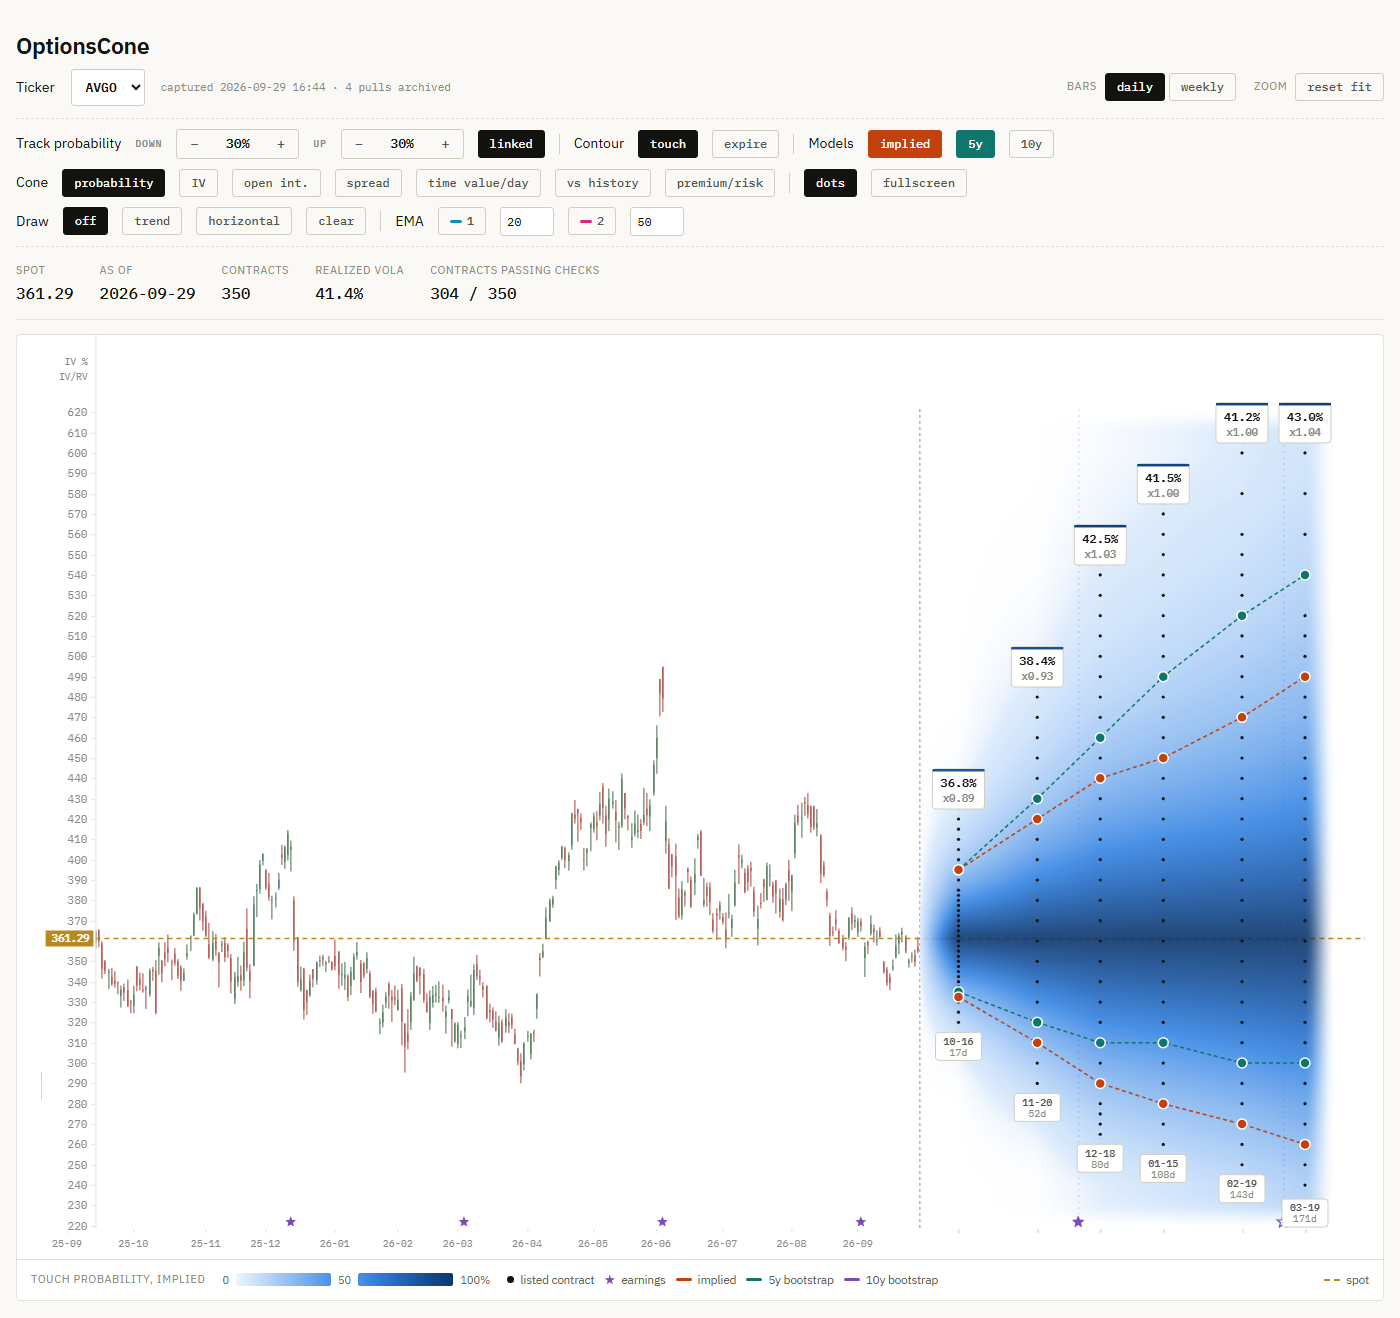
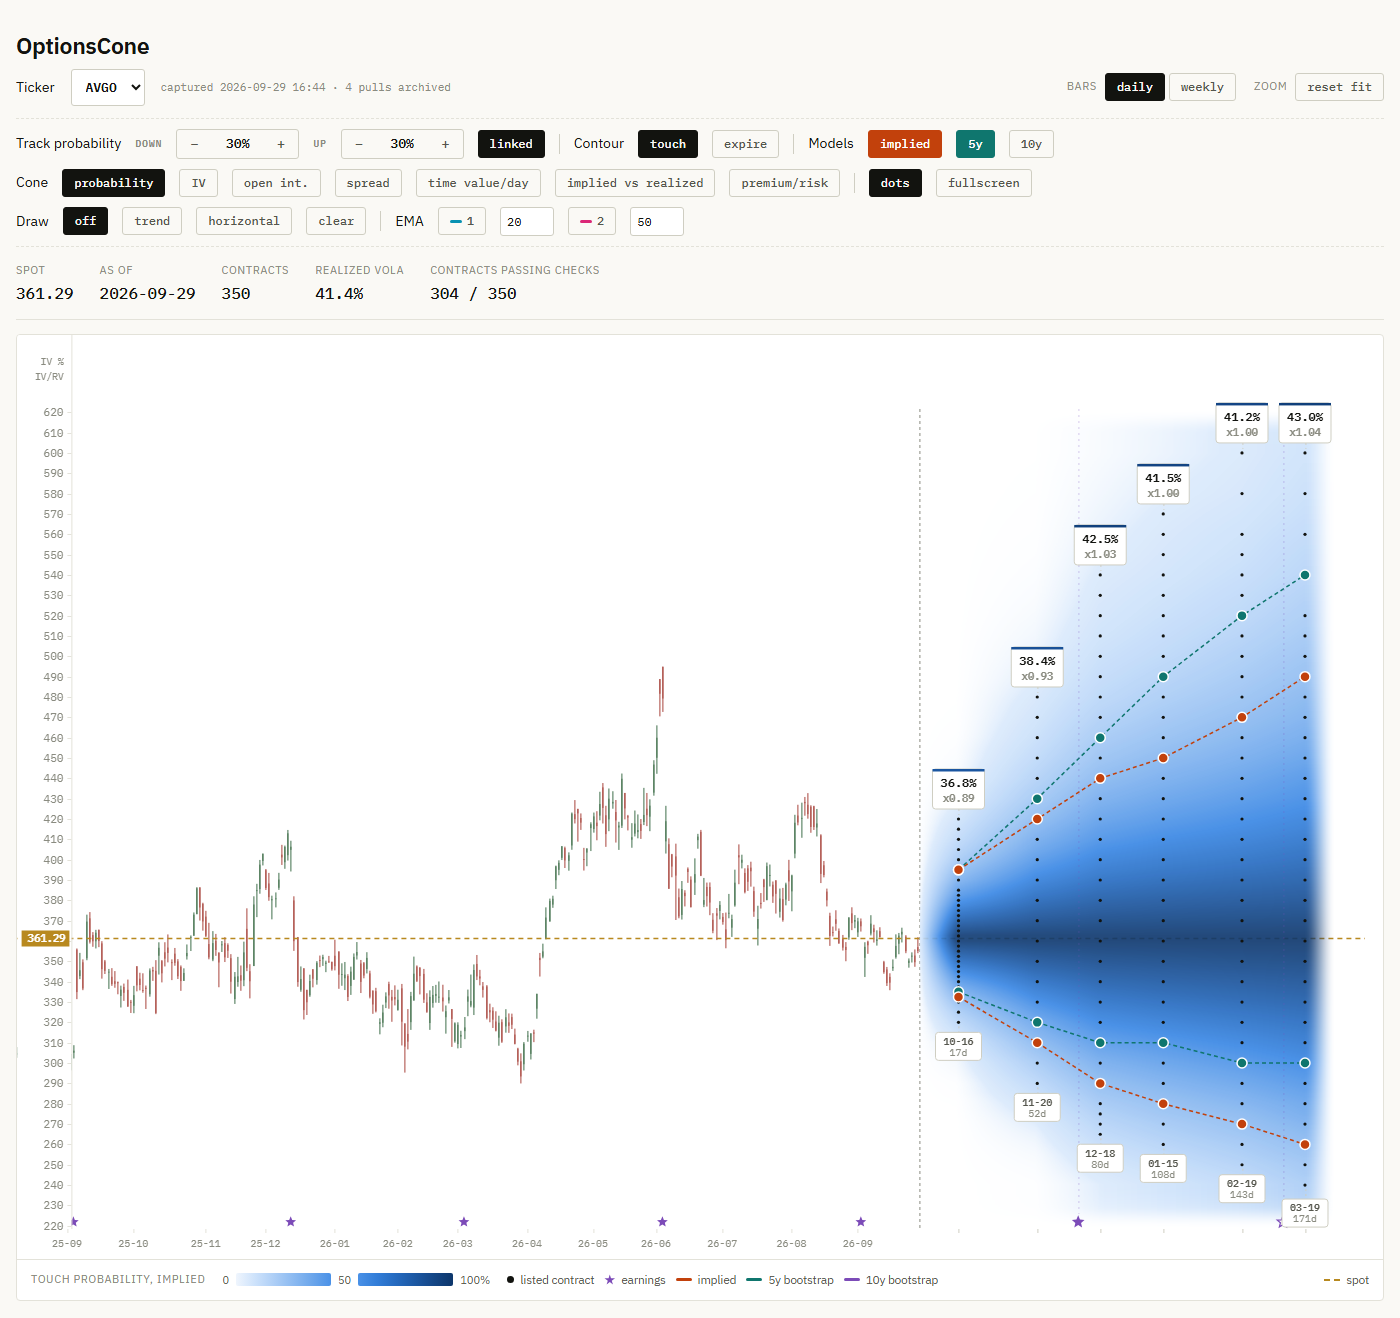
Rename vs history to implied vs realized

Changed region(s): [[0.0, 0.28, 0.0921, 0.9332], [0.43, 0.1244, 0.7371, 0.1555]]

diff --git a/docs/methods.html b/docs/methods.html
@@ -117,10 +117,10 @@
 
     <h2 id="cone">Drawing the cone</h2>
     <p>Probability coloring is interpolated between the listed strikes and expiries, in log price. Where an expiry does not list a strike, the probability is computed from the volatility of its nearest listed strike so the field stays continuous; no dot is drawn there. The color ramp is adjusted so that perceived lightness falls evenly with probability.</p>
-    <p>Implied volatility, open interest, spread and time value per day are painted outward from each contract: each point takes the strongest contract within reach, so a large position stays visible as a block instead of being averaged away. The two seller maps, vs history and premium per unit risk, are differences and ratios and are blended instead: each point is the average of the contracts around it, weighted by inverse distance, so every contract shows its own value at its own position and a high value does not spill onto its neighbors.</p>
-    <p>All maps fade out beyond the outermost listed strikes, past the last expiry, and where they run into the top or bottom of the chart, so the cone ends softly; only transparency changes there, never the color. The strike range follows the expiry that reaches furthest on each side. Probability uses a fixed 0 to 100% scale, implied volatility a linear scale over the values shown, and open interest, spread, time value per day and premium per unit risk a logarithmic scale, with spread inverted so that darker means tighter. vs history is centered on zero.</p>
+    <p>Implied volatility, open interest, spread and time value per day are painted outward from each contract: each point takes the strongest contract within reach, so a large position stays visible as a block instead of being averaged away. The two seller maps, implied vs realized and premium per unit risk, are differences and ratios and are blended instead: each point is the average of the contracts around it, weighted by inverse distance, so every contract shows its own value at its own position and a high value does not spill onto its neighbors.</p>
+    <p>All maps fade out beyond the outermost listed strikes, past the last expiry, and where they run into the top or bottom of the chart, so the cone ends softly; only transparency changes there, never the color. The strike range follows the expiry that reaches furthest on each side. Probability uses a fixed 0 to 100% scale, implied volatility a linear scale over the values shown, and open interest, spread, time value per day and premium per unit risk a logarithmic scale, with spread inverted so that darker means tighter. Implied vs realized is centered on zero.</p>
     <p>Time value per day is the mid divided by the days to expiry. Every contract shown is out of the money, so its whole price is time value; per day it is an average over the remaining life, since decay speeds up towards expiry.</p>
-    <p>vs history is the implied touch probability minus the 10-year bootstrap: blue where the market prices more risk than history (a rich premium for a seller), red where it prices less. Touch rather than expire, because it rests on volatility more than on the trend the history happened to have. The bootstrap does not know the earnings calendar: about one in three of its 20-day blocks contains a past earnings reaction, whatever the dates. For an expiry that ends before the next report, history therefore overstates the risk and the map leans red; for one that spans the report, the market prices the event and the map leans blue.</p>
+    <p>Implied vs realized is the implied touch probability minus the realized one from the 10-year bootstrap: blue where the market prices in a higher probability than the stock realized (a potential opportunity for sellers), red where lower. Touch rather than expire, because it rests on volatility more than on the trend the history happened to have. The bootstrap does not know the earnings calendar: about one in three of its 20-day blocks contains a past earnings reaction, whatever the dates. For an expiry that ends before the next report, history therefore overstates the risk and the map leans red; for one that spans the report, the market prices the event and the map leans blue.</p>
     <p>Premium per unit risk is the mid divided by the average intrinsic value at the worst point of each 10-year path before expiry: for a short put the lowest low, for a short call the highest high, with paths that never reach the strike counted as zero. It is left out where fewer than 50 of the 10,000 paths reach the strike. It uses the mid; a seller receives the bid, which on far out-of-the-money contracts is noticeably lower.</p>
     <p>For each expiry and model, the contour marks the listed strike whose probability is closest to the target, separately above and below spot. A filled marker is within 5 percentage points of the target.</p>
 

diff --git a/docs/manual.html b/docs/manual.html
@@ -117,7 +117,7 @@
       <tr><td><em>linked</em></td><td>Moves both sides together.</td></tr>
       <tr><td>Contour: <em>touch</em>, <em>expire</em></td><td>Whether the lines track the probability of touching the strike before expiry, or of finishing beyond it at expiry.</td></tr>
       <tr><td>Models: <em>implied</em>, <em>5y</em>, <em>10y</em></td><td>Show or hide each model's line.</td></tr>
-      <tr><td>Cone: <em>probability</em>, <em>IV</em>, <em>open int.</em>, <em>spread</em>, <em>time value/day</em>, <em>vs history</em>, <em>premium/risk</em></td><td>What the cone is colored by. Clicking the active button again hides the cone, so the contour lines can be read on their own. Probability uses a fixed 0 to 100% scale; the others are stretched across the values on screen, with the ends shown in the legend. For spread, darker means tighter. <em>time value/day</em> is the mid divided by the days to expiry (an average, since decay speeds up towards expiry). <em>vs history</em> is the implied touch probability minus the 10-year bootstrap: blue where the market prices more risk than history (rich premium for a seller), red where it prices less. <em>premium/risk</em> is the mid divided by the average intrinsic value at the worst point of the 10-year paths; higher is better for a seller.</td></tr>
+      <tr><td>Cone: <em>probability</em>, <em>IV</em>, <em>open int.</em>, <em>spread</em>, <em>time value/day</em>, <em>implied vs realized</em>, <em>premium/risk</em></td><td>What the cone is colored by. Clicking the active button again hides the cone, so the contour lines can be read on their own. Probability uses a fixed 0 to 100% scale; the others are stretched across the values on screen, with the ends shown in the legend. For spread, darker means tighter. <em>time value/day</em> is the mid divided by the days to expiry (an average, since decay speeds up towards expiry). <em>implied vs realized</em> is the implied touch probability minus the realized one from the 10-year bootstrap: blue where the market prices in a higher probability than the stock realized (a potential opportunity for sellers), red where lower. <em>premium/risk</em> is the mid divided by the average intrinsic value at the worst point of the 10-year paths; higher is better for a seller.</td></tr>
       <tr><td><em>dots</em></td><td>Hides the contract dots to read the color on its own. The tooltip keeps working.</td></tr>
       <tr><td><em>fullscreen</em></td><td>Fills the window with the chart and takes the controls along.</td></tr>
       <tr><td>Draw: <em>off</em>, <em>trend</em>, <em>horizontal</em>, <em>clear</em></td><td>Drawing tools. Trend lines are dragged from one point to another; a horizontal line is placed with one click. Drawings stay pinned to price and date when you zoom or scroll.</td></tr>
@@ -147,7 +147,7 @@
       <li><strong>open int.:</strong> open interest and today's volume</li>
       <li><strong>spread:</strong> bid, ask, mid, and the spread in dollars and as a share of the mid</li>
       <li><strong>time value/day:</strong> the mid, the days left and the average time value per day</li>
-      <li><strong>vs history:</strong> the implied and the 10-year touch probability and their difference in percentage points</li>
+      <li><strong>implied vs realized:</strong> the implied and the realized 10-year touch probability and their difference in percentage points</li>
       <li><strong>premium/risk:</strong> the mid, the average worst intrinsic value on the 10-year paths, the share of paths that reach the strike, and the ratio</li>
     </ul>
     <p>A warning line appears if the quote was flagged by the checks.</p>

diff --git a/docs/index.html b/docs/index.html
@@ -94,7 +94,7 @@
     <figure class="mapfig"><a class="map" href="img/avgo/chart-iv.png"><span>Implied volatility</span><img src="img/avgo/cone-iv.png" width="550" height="840" alt="Broadcom (AVGO), Implied volatility per contract: skew and term structure."></a><figcaption>Each contract&#39;s own volatility, so skew and the term structure show at a glance. The badges above each expiry give its model-free volatility.</figcaption></figure>
     <figure class="mapfig"><a class="map" href="img/avgo/chart-oi.png"><span>Open interest</span><img src="img/avgo/cone-oi.png" width="550" height="840" alt="Broadcom (AVGO), Open interest: where the large positions sit."></a><figcaption>Where the large positions sit, on a logarithmic scale so both small and large strikes stay readable.</figcaption></figure>
     <figure class="mapfig"><a class="map" href="img/avgo/chart-tv.png"><span>Time value per day</span><img src="img/avgo/cone-tv.png" width="550" height="840" alt="Broadcom (AVGO), Time value per remaining day, darkest near the money for short expiries."></a><figcaption>The option price divided by the days left, an average over the remaining life. Every contract shown is out of the money, so its whole price is time value.</figcaption></figure>
-    <figure class="mapfig"><a class="map" href="img/avgo/chart-gap.png"><span>Market vs history</span><img src="img/avgo/cone-gap.png" width="550" height="840" alt="Broadcom (AVGO), Implied minus historical touch probability: blue where the market prices more risk than history, red where less."></a><figcaption>The market&#39;s touch probability minus the stock&#39;s own last ten years. Blue where the market prices in a higher probability than history produced (a potential opportunity for sellers), red where lower.</figcaption></figure>
+    <figure class="mapfig"><a class="map" href="img/avgo/chart-gap.png"><span>Implied vs realized</span><img src="img/avgo/cone-gap.png" width="550" height="840" alt="Broadcom (AVGO), Implied minus realized touch probability: blue where the market prices in a higher probability than the stock realized, red where lower."></a><figcaption>The market&#39;s touch probability minus the realized one from the stock&#39;s last ten years. Blue where the market prices in a higher probability than the stock realized (a potential opportunity for sellers), red where lower.</figcaption></figure>
     <figure class="mapfig"><a class="map" href="img/avgo/chart-vpr.png"><span>Premium per unit risk</span><img src="img/avgo/cone-vpr.png" width="550" height="840" alt="Broadcom (AVGO), Option price relative to the average worst intrinsic value on the historical paths."></a><figcaption>The option price divided by the average intrinsic value at the worst point of each historical path. Higher means more premium for the risk history shows.</figcaption></figure>
   </div>
 

diff --git a/charts/build_chart.py b/charts/build_chart.py
@@ -255,7 +255,7 @@ BODY = """<div class="wrap">
   <button class="zbtn" id="cm-oi" aria-pressed="false">open int.</button>
   <button class="zbtn" id="cm-spr" aria-pressed="false">spread</button>
   <button class="zbtn" id="cm-tv" aria-pressed="false" title="Time value per remaining day: the mid divided by the days to expiry (an average, decay speeds up towards expiry)">time value/day</button>
-  <button class="zbtn" id="cm-gap" aria-pressed="false" title="Implied touch probability minus the 10-year bootstrap. Blue: the market prices more risk than history (rich premium for a seller), red: less">vs history</button>
+  <button class="zbtn" id="cm-gap" aria-pressed="false" title="Implied touch probability minus the realized one from the 10-year bootstrap. Blue: the market prices in a higher probability than the stock realized (a potential opportunity for sellers), red: lower">implied vs realized</button>
   <button class="zbtn" id="cm-vpr" aria-pressed="false" title="Premium per unit of risk for a seller: the mid divided by the average intrinsic value at each 10-year path's worst point before expiry">premium/risk</button>
   <span class="sep"></span>
   <button class="zbtn" id="dots" aria-pressed="true" title="Show or hide the contract markers">dots</button>
@@ -351,10 +351,10 @@ BODY = """<div class="wrap">
 
   <h3>The cone</h3>
   <p>Probability coloring is interpolated between the listed strikes and expiries, in log price. Where an expiry does not list a strike, the probability is computed from the volatility of its nearest listed strike, so the field stays continuous; no dot is drawn there.</p>
-  <p>Implied volatility, open interest, spread and time value per day are painted outward from each contract: each point takes the strongest contract within reach, so a large position stays visible as a block instead of being averaged away. The two seller maps, vs history and premium per unit risk, are differences and ratios and are blended instead: each point is the average of the contracts around it, weighted by inverse distance, so every contract shows its own value at its own position and a high value does not spill onto its neighbors.</p>
-  <p>All maps fade out beyond the outermost listed strikes, past the last expiry, and where they run into the top or bottom of the chart, so the cone ends softly; only transparency changes there, never the color. The strike range follows the expiry that reaches furthest on each side. Probability uses a fixed 0 to 100% scale, implied volatility a linear scale over the values shown, and open interest, spread, time value per day and premium per unit risk a logarithmic scale, with spread inverted so that darker means tighter. vs history is centered on zero.</p>
+  <p>Implied volatility, open interest, spread and time value per day are painted outward from each contract: each point takes the strongest contract within reach, so a large position stays visible as a block instead of being averaged away. The two seller maps, implied vs realized and premium per unit risk, are differences and ratios and are blended instead: each point is the average of the contracts around it, weighted by inverse distance, so every contract shows its own value at its own position and a high value does not spill onto its neighbors.</p>
+  <p>All maps fade out beyond the outermost listed strikes, past the last expiry, and where they run into the top or bottom of the chart, so the cone ends softly; only transparency changes there, never the color. The strike range follows the expiry that reaches furthest on each side. Probability uses a fixed 0 to 100% scale, implied volatility a linear scale over the values shown, and open interest, spread, time value per day and premium per unit risk a logarithmic scale, with spread inverted so that darker means tighter. Implied vs realized is centered on zero.</p>
   <p>Time value per day is the mid divided by the days to expiry. Every contract shown is out of the money, so its whole price is time value; per day it is an average over the remaining life, since decay speeds up towards expiry.</p>
-  <p>vs history is the implied touch probability minus the 10-year bootstrap: blue where the market prices more risk than history (a rich premium for a seller), red where it prices less. Touch rather than expire, because it rests on volatility more than on the trend the history happened to have. The bootstrap does not know the earnings calendar: about one in three of its 20-day blocks contains a past earnings reaction, whatever the dates. For an expiry that ends before the next report, history therefore overstates the risk and the map leans red; for one that spans the report, the market prices the event and the map leans blue.</p>
+  <p>Implied vs realized is the implied touch probability minus the realized one from the 10-year bootstrap: blue where the market prices in a higher probability than the stock realized (a potential opportunity for sellers), red where lower. Touch rather than expire, because it rests on volatility more than on the trend the history happened to have. The bootstrap does not know the earnings calendar: about one in three of its 20-day blocks contains a past earnings reaction, whatever the dates. For an expiry that ends before the next report, history therefore overstates the risk and the map leans red; for one that spans the report, the market prices the event and the map leans blue.</p>
   <p>Premium per unit risk is the mid divided by the average intrinsic value at the worst point of each 10-year path before expiry: for a short put the lowest low, for a short call the highest high, with paths that never reach the strike counted as zero. It is left out where fewer than 50 of the 10,000 paths reach the strike. It uses the mid; a seller receives the bid, which on far out-of-the-money contracts is noticeably lower.</p>
 
   <h3>Contours</h3>
@@ -471,8 +471,9 @@ let showDots=true;
 // `div` marks a signed field drawn on its own two-hue ramp around zero: the
 // implied touch probability minus the 10-year bootstrap. Touch rather than
 // expire, because it rests on volatility more than on the trend the history
-// happened to have. Positive means the market prices more risk than history,
-// a rich premium for a seller, and is drawn blue.
+// happened to have. Positive means the market prices in a higher probability
+// than the stock realized, a potential opportunity for sellers, and is drawn
+// blue.
 //
 // Premium per unit risk is the mid over the average intrinsic value at each
 // 10-year path's worst point before expiry, all paths counted. Where fewer
@@ -494,7 +495,7 @@ const COLOUR={
   spr:{label:'spread', field:c=>c.spr, scale:'log', clip:false, invert:true, fmt:v=>(v*100).toFixed(1)+'%'},
   tv: {label:'time value per day', field:c=>{const m=midOf(c);
          return (m==null||!c._dte)?null:m/c._dte;}, scale:'log', clip:false, fmt:usd},
-  gap:{label:'touch probability, implied minus 10y', field:c=>gapOf(c), scale:'lin', clip:false, div:true, blend:'avg',
+  gap:{label:'touch probability, implied minus realized (10y)', field:c=>gapOf(c), scale:'lin', clip:false, div:true, blend:'avg',
        fmt:v=>(v>0?'+':v<0?'\u2212':'')+Math.abs(v*100).toFixed(1)+' pts'},
   vpr:{label:'premium per unit risk', field:c=>vprOf(c), scale:'log', clip:false, blend:'avg',
        fmt:v=>v.toFixed(2)+'x'}
@@ -1559,7 +1560,7 @@ function table(){
     ({p:'touch probability, implied',iv:'implied volatility',
       oi:'open interest',spr:'spread, % of mid',
       tv:'time value per remaining day (mid / days to expiry)',
-      gap:'touch probability, implied minus 10-year bootstrap',
+      gap:'touch probability, implied minus realized (10-year bootstrap)',
       vpr:'premium per unit risk: mid / average intrinsic value at the worst point of the 10-year paths'}[colourBy]||C.label);
   let h='<div class="scroller"><table><caption class="note" style="text-align:left;caption-side:top">'+
     title+'</caption><thead><tr><th>Strike</th><th>vs spot</th>'+
@@ -1688,10 +1689,10 @@ function showTip(c){
       const g=gapOf(c.c);
       body='touch probability\n'
          +'  implied     '+f1(c.c.p)+'\n'
-         +'  10y         '+f1(c.c.mc10d)+'\n'
+         +'  realized 10y'+f1(c.c.mc10d)+'\n'
          +'  difference  '+(g==null?'n/a':COLOUR.gap.fmt(g))+'\n'
-         +(g==null?'':g>0?'market prices more risk than history\n(rich premium for a seller)'
-                         :'market prices less risk than history\n(cheap premium for a seller)');
+         +(g==null?'':g>0?'market prices a higher probability\nthan realized (potential opportunity\nfor sellers)'
+                         :'market prices a lower probability\nthan realized');
     } else if(colourBy==='vpr'){
       const m=midOf(c.c), v=vprOf(c.c);
       body='mid              '+(m==null?'n/a':m.toFixed(2))+'\n'

diff --git a/DESIGN.md b/DESIGN.md
@@ -115,7 +115,7 @@ color modes serve that question, all built from data the app already has.
   value is not the same as the out-of-the-money contract at the same strike
   (interest on the strike and dividends come on top), and their quotes are
   wider.
-- **vs history.** The implied touch probability minus the 10-year bootstrap.
+- **Implied vs realized.** The implied touch probability minus the 10-year bootstrap.
   Touch rather than expire, because the probability of finishing beyond a
   strike is dominated by drift, and the trend a stock happened to have over
   ten years is the least reliable thing history offers. The probability of
